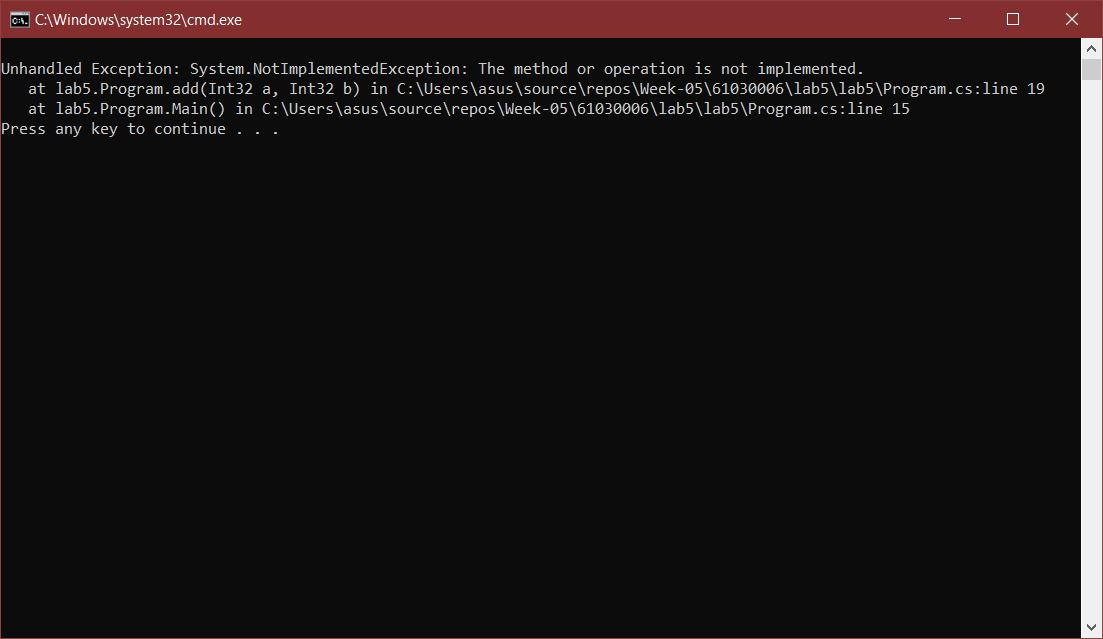
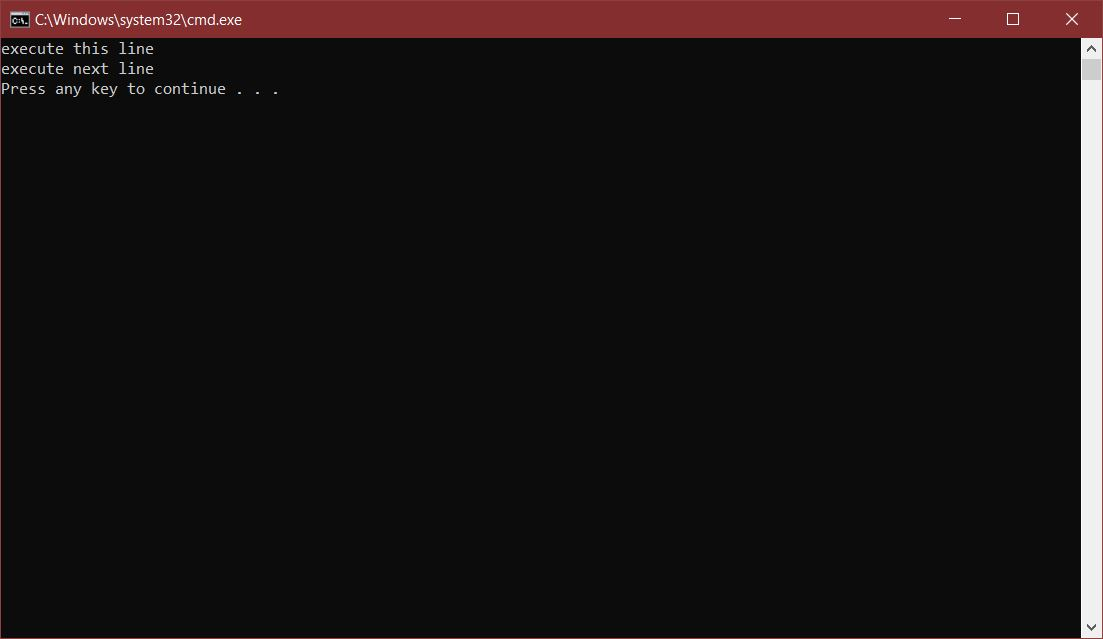
99

Changed region(s): [[0.0, 0.0595, 0.9556, 0.2081]]

diff --git a/61030006/lab5/lab5/Program.cs b/61030006/lab5/lab5/Program.cs
@@ -11,17 +11,34 @@ namespace lab5
     {
         static void Main(string[] args)
         {
-            int a = 2;
-            if (a == 2)
+            int a = 10;
+            int b = 20;
+            int c;
+            try
             {
-                Console.WriteLine("execute this line");
+                c = div(a, b);
             }
-            if (a < 2)
+            catch (DivideByZeroException e)
             {
-                Console.WriteLine("execute this line too");
+                Console.WriteLine("DivideByZeroException");
+                Console.WriteLine(e.Message);
             }
-            Console.WriteLine("execute next line");
+            catch (NullReferenceException e)
+            {
+                Console.WriteLine("NullReferenceException");
+                Console.WriteLine(e.Message);
+            }
+            catch (Exception e)
+            {
+                Console.WriteLine("Exception");
+                Console.WriteLine(e.Message);
+            }
         }
+        private static int div(int a, int b)
+        {
+            throw new < ชื่อเมธอดในข้อ 1 - 4 ครั้งละข้อ > ();
+        }
+    }
 
 
 
